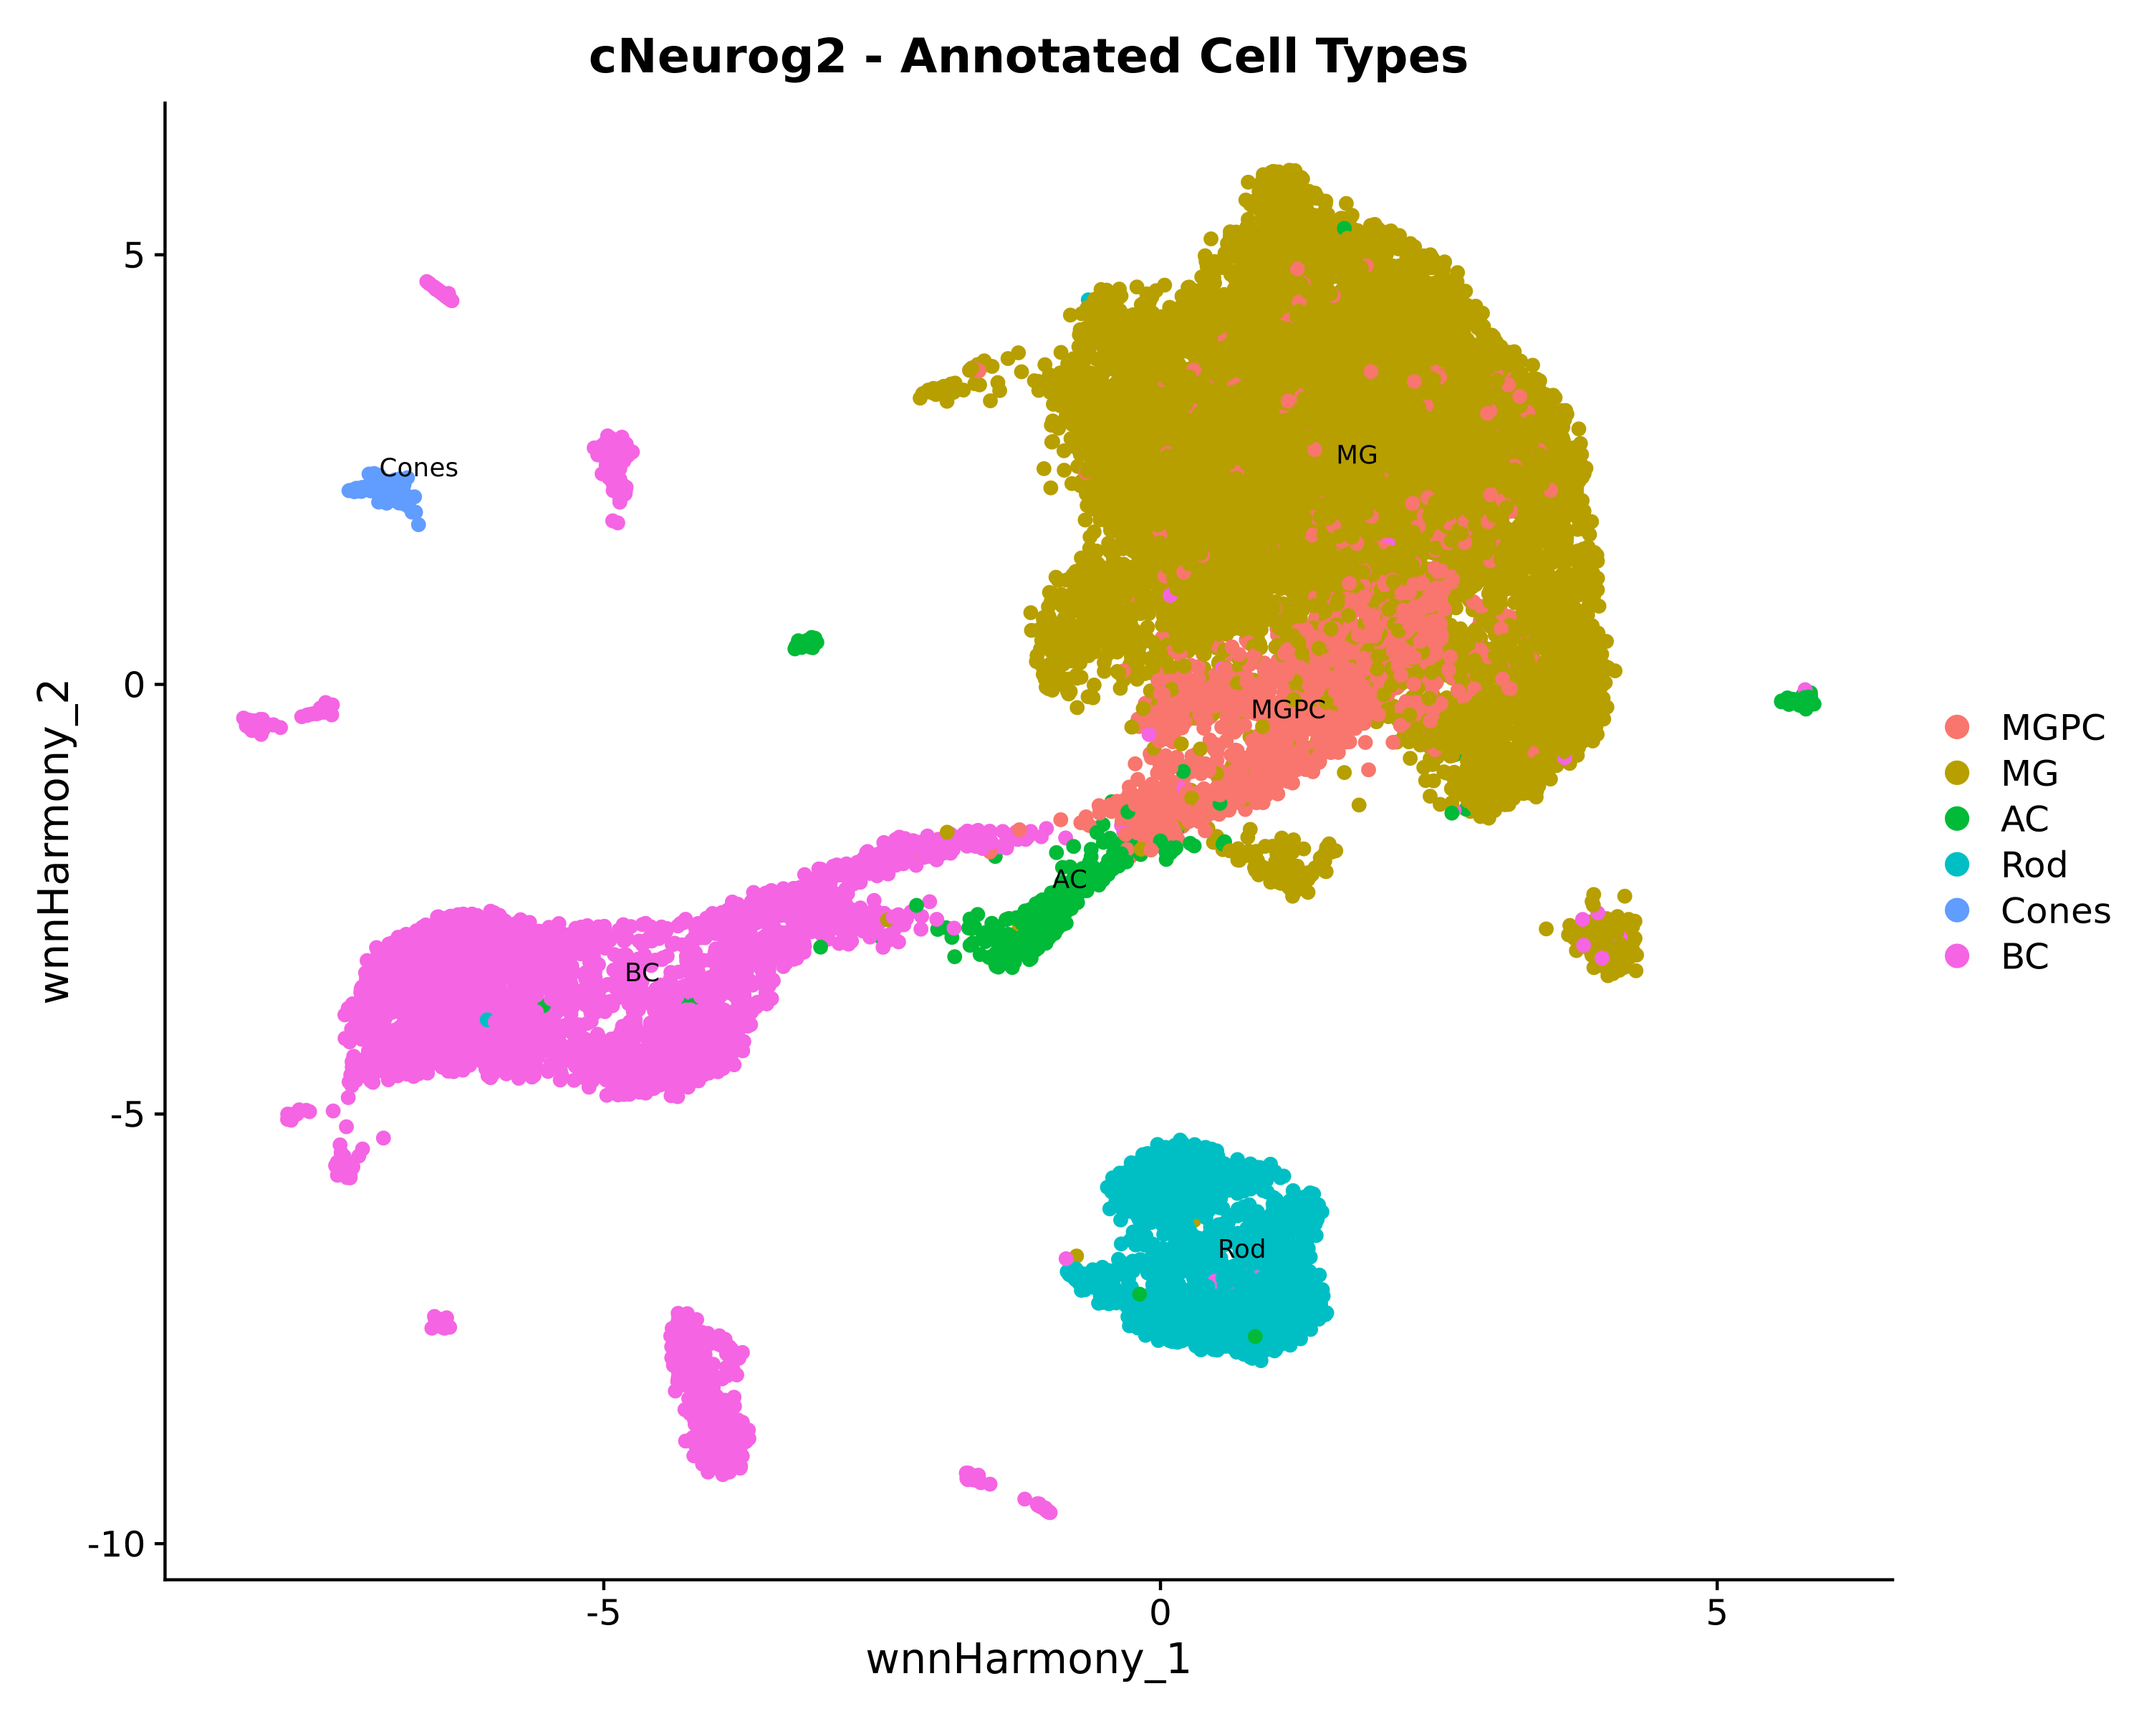
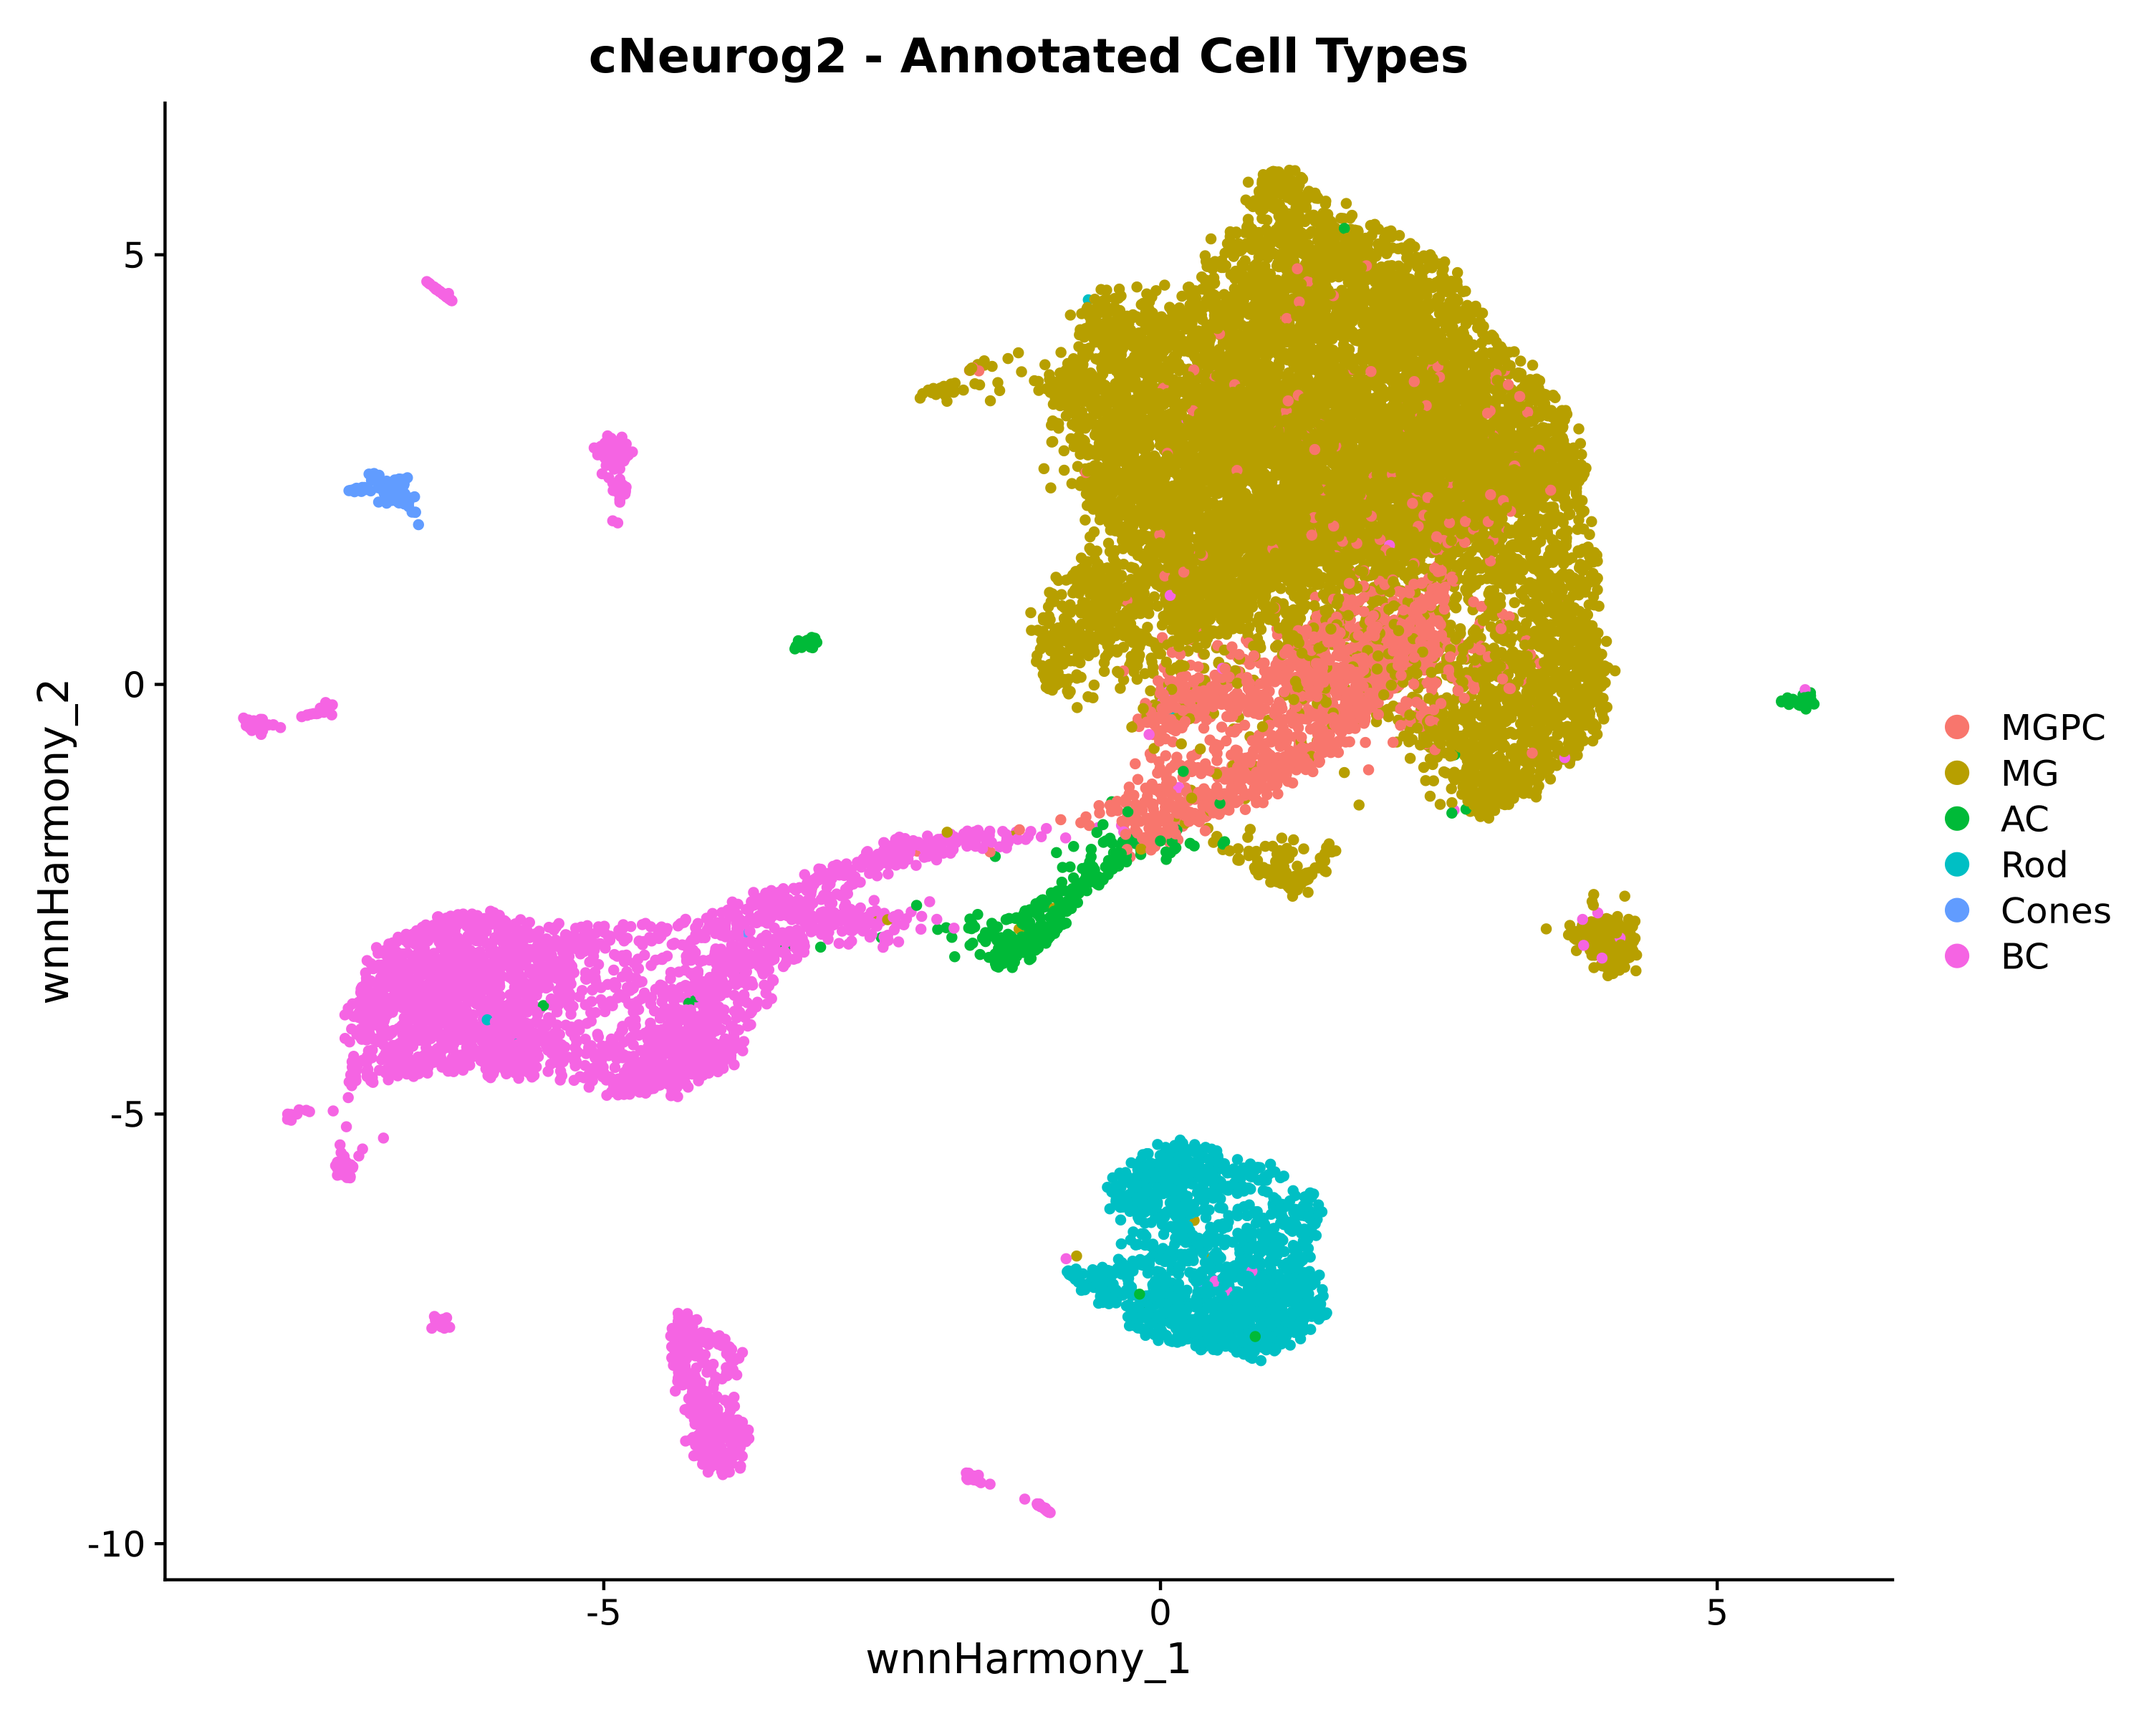
move cluster names to legened

diff --git a/README.md b/README.md
@@ -96,7 +96,7 @@ Normally, adult mouse retinas cannot generate new neurons, so vision loss is per
 ## Annotation: 
 
 
-![Annotations](figures/cNeurog2_annotated_umap.png?v=6)
+![Annotations](figures/cNeurog2_annotated_umap.png?v=7)
 
 ## Cell ratio  
 
